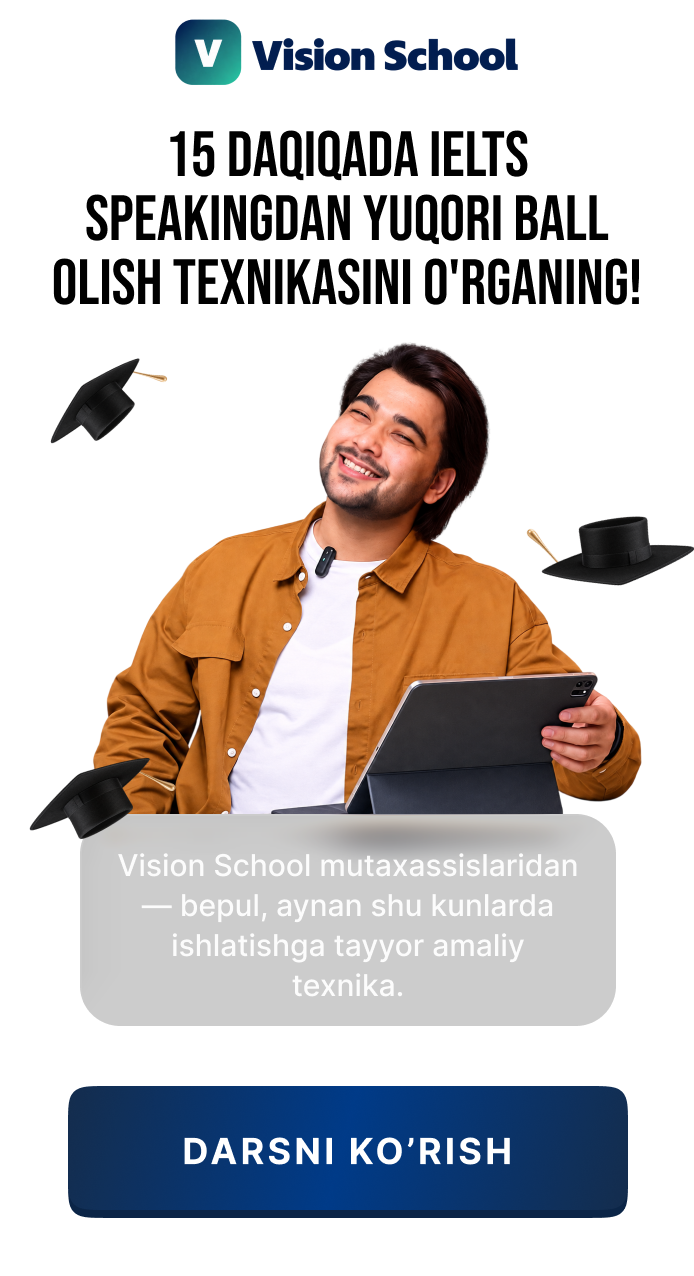
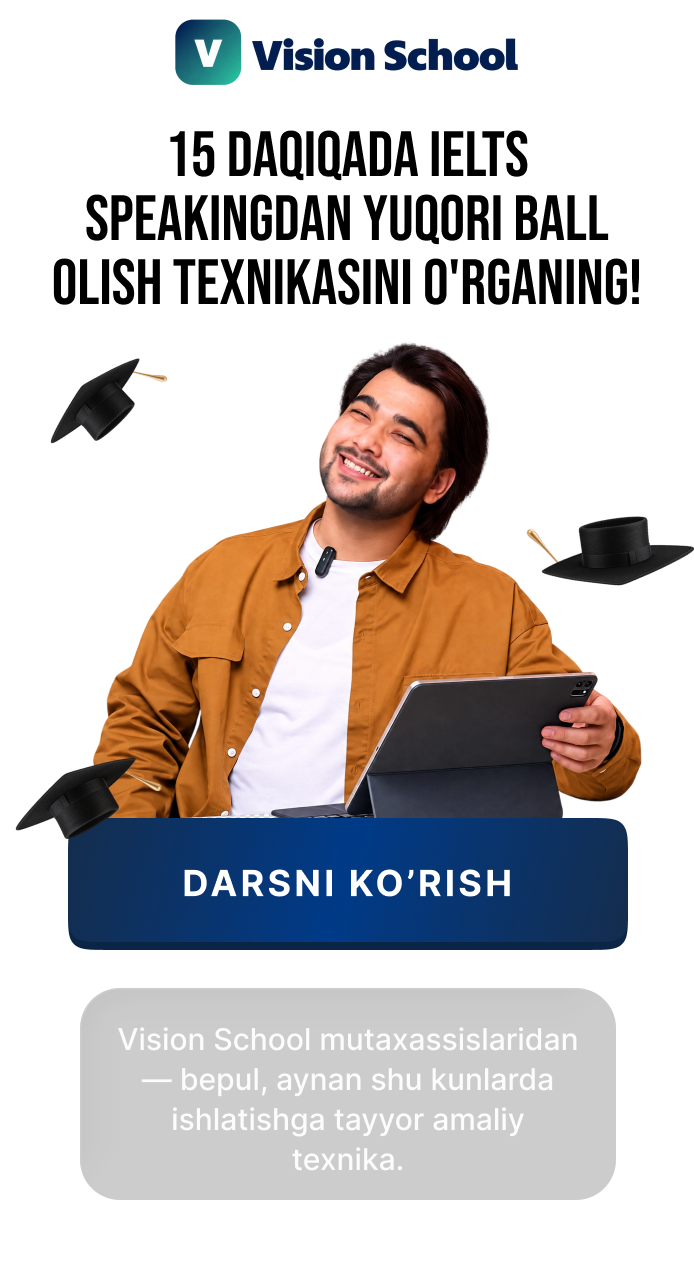
Add files via upload

Changed region(s): [[0.0303, 0.5807, 0.9078, 0.9781]]

diff --git a/assets/style.css b/assets/style.css
@@ -4,7 +4,7 @@ html{background:#f1f3f7}
 body{margin:0;background:#f1f3f7;color:#050505;font-family:Arial,Helvetica,sans-serif}
 .design-shell{position:relative;width:min(100%,694px);margin:0 auto;background:#fff;line-height:0}
 .design-image{display:block;width:100%!important;max-width:100%;height:auto;object-fit:contain}
-.design-hotspot{position:absolute;z-index:5;left:9.8%;top:85.1%;width:80.5%;height:10.4%;border:0;border-radius:22px;background:transparent;cursor:pointer}
+.design-hotspot{position:absolute;z-index:5;left:9.8%;top:64.1%;width:80.5%;height:10.4%;border:0;border-radius:22px;background:transparent;cursor:pointer}
 .design-hotspot:focus-visible,.telegram-hotspot:focus-visible{outline:5px solid #2aa8dc;outline-offset:5px}
 .telegram-hotspot{position:absolute;z-index:5;left:14.4%;top:60.2%;width:71.5%;height:8.7%;border-radius:22px}
 .page{width:min(100%,694px);min-height:100vh;margin:0 auto;padding:20px 30px 58px;background:#fff;text-align:center;overflow:hidden}

diff --git a/index.html b/index.html
@@ -10,7 +10,7 @@
 </head>
 <body>
   <main class="design-shell">
-    <img class="design-image" src="assets/vision-design.png" width="694" height="1276" alt="Vision School — 15 daqiqada IELTS Speakingdan yuqori ball olish texnikasi">
+    <img class="design-image" src="assets/vision-design.png?v=6" width="694" height="1276" alt="Vision School — 15 daqiqada IELTS Speakingdan yuqori ball olish texnikasi">
     <button class="design-hotspot" type="button" id="openForm" aria-label="Darsni ko‘rish va ro‘yxatdan o‘tish"></button>
   </main>
 
